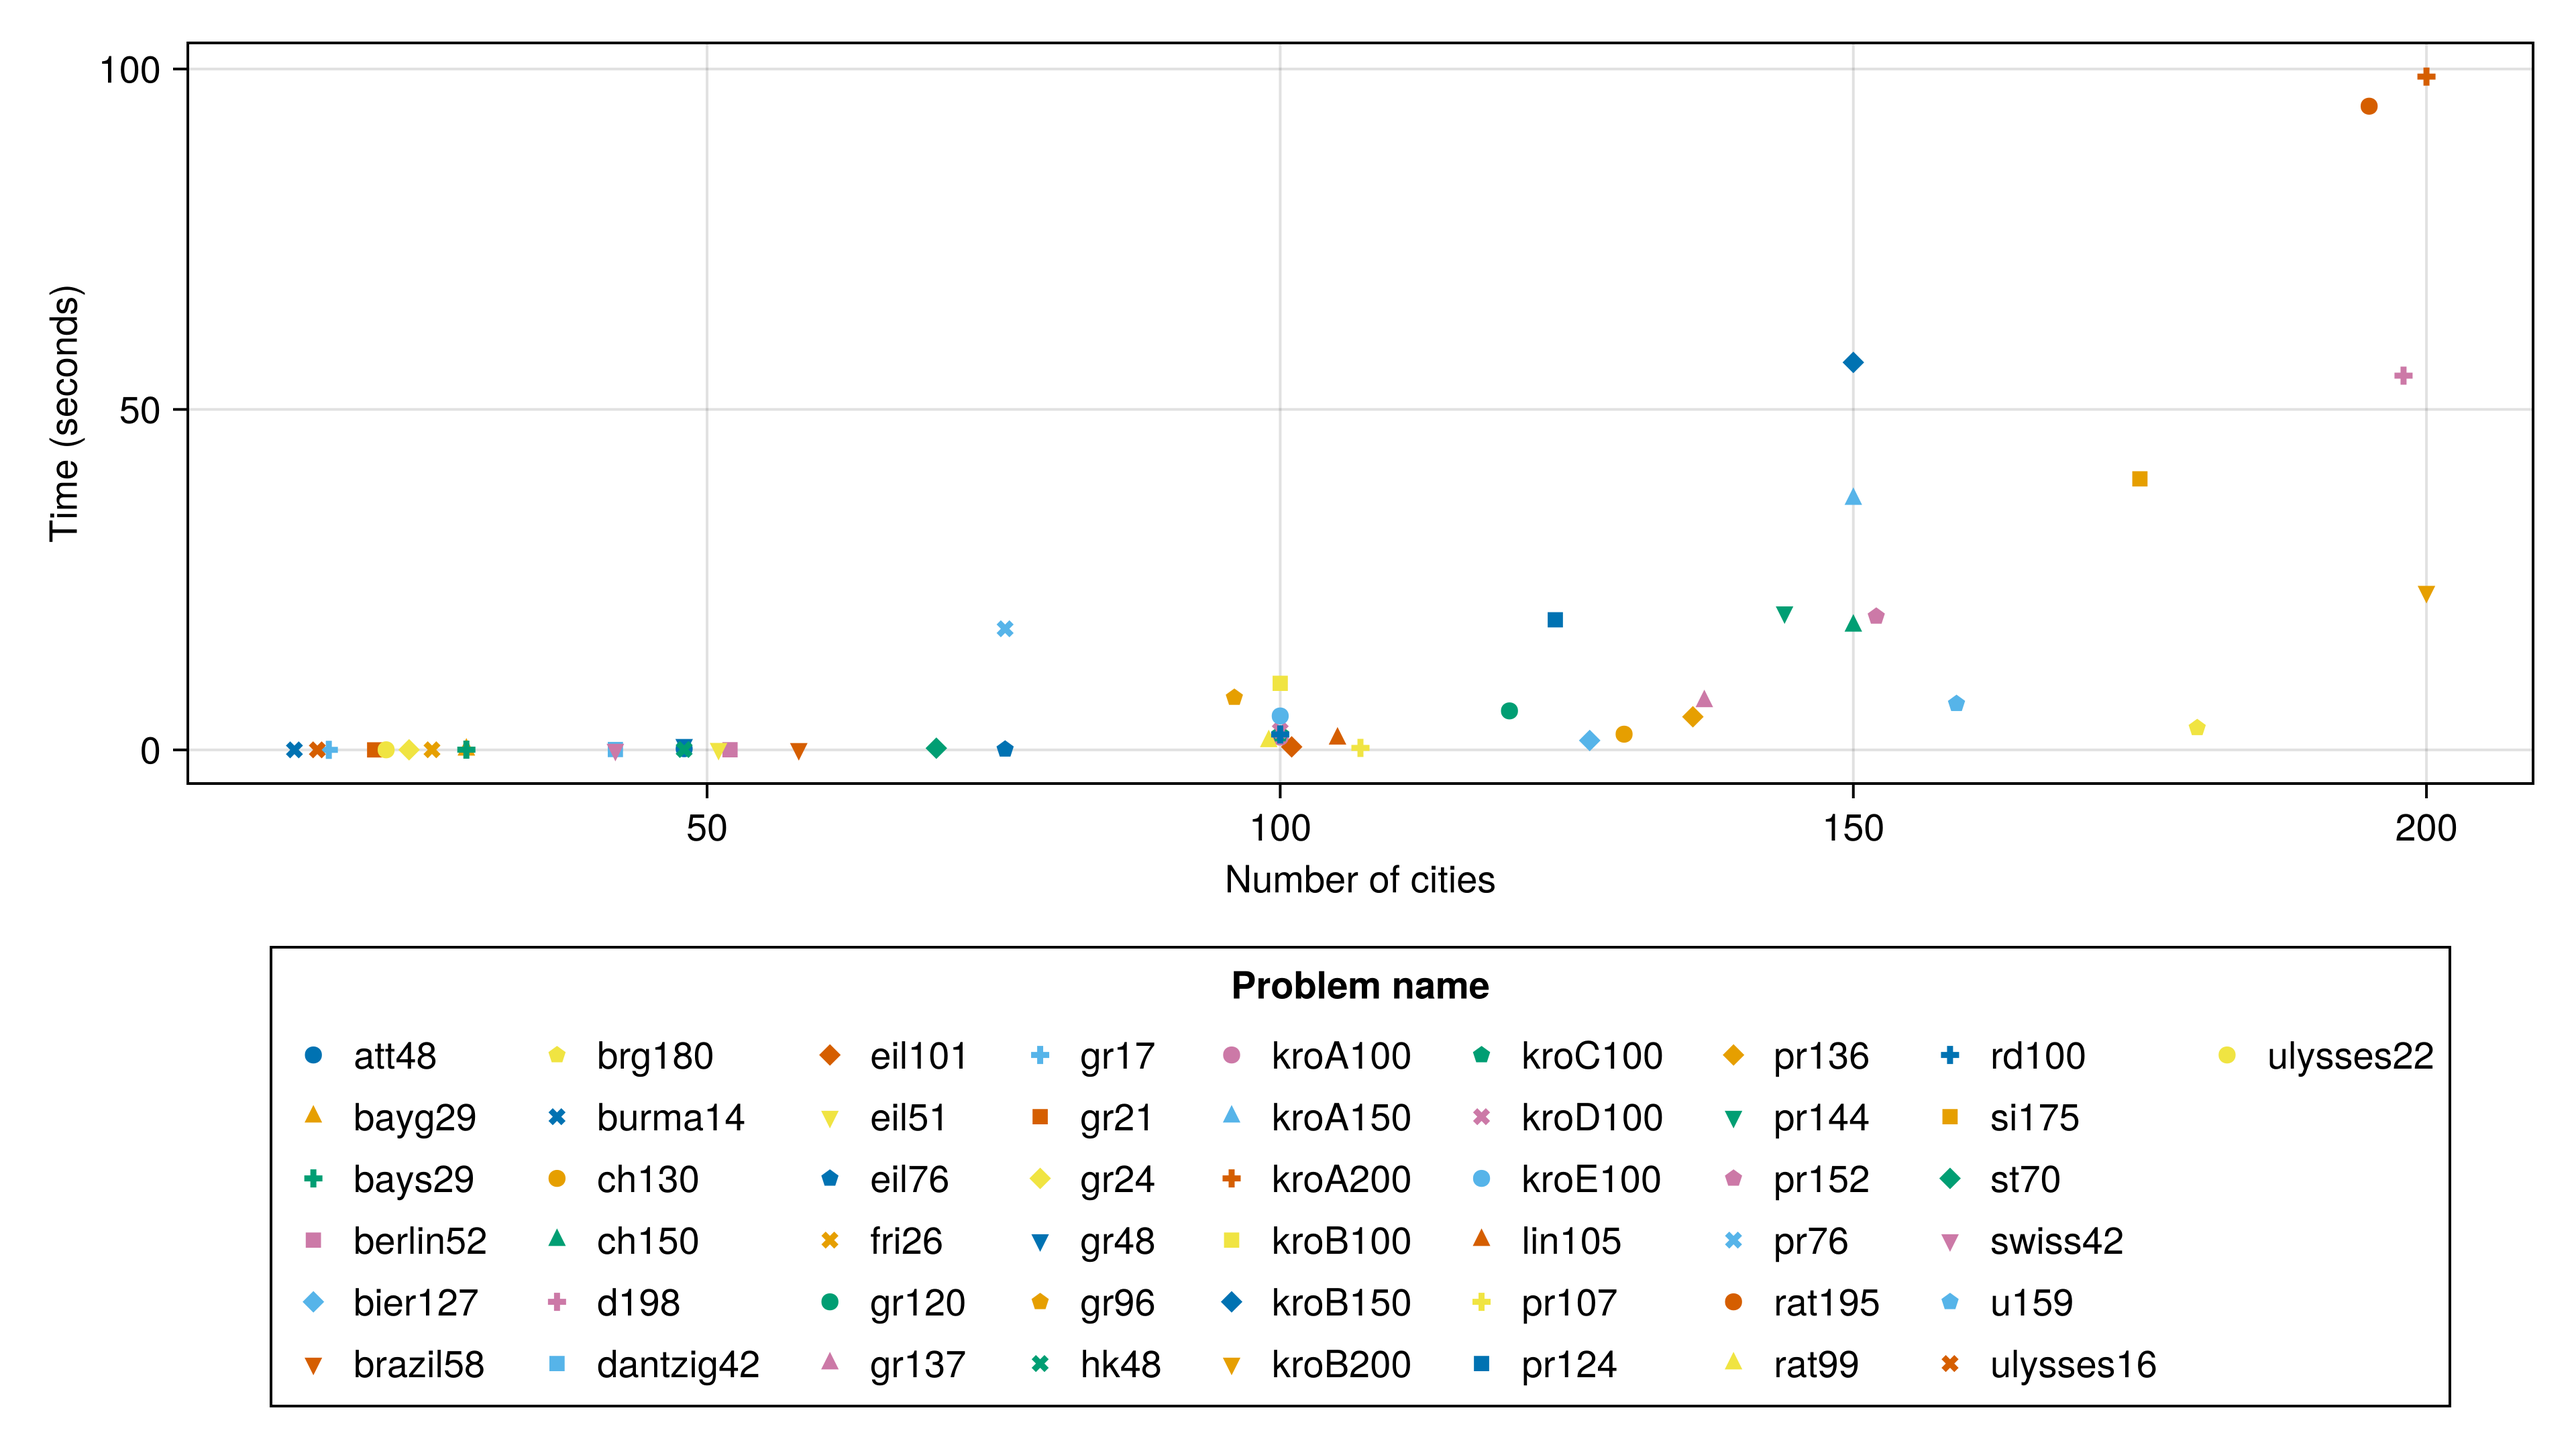
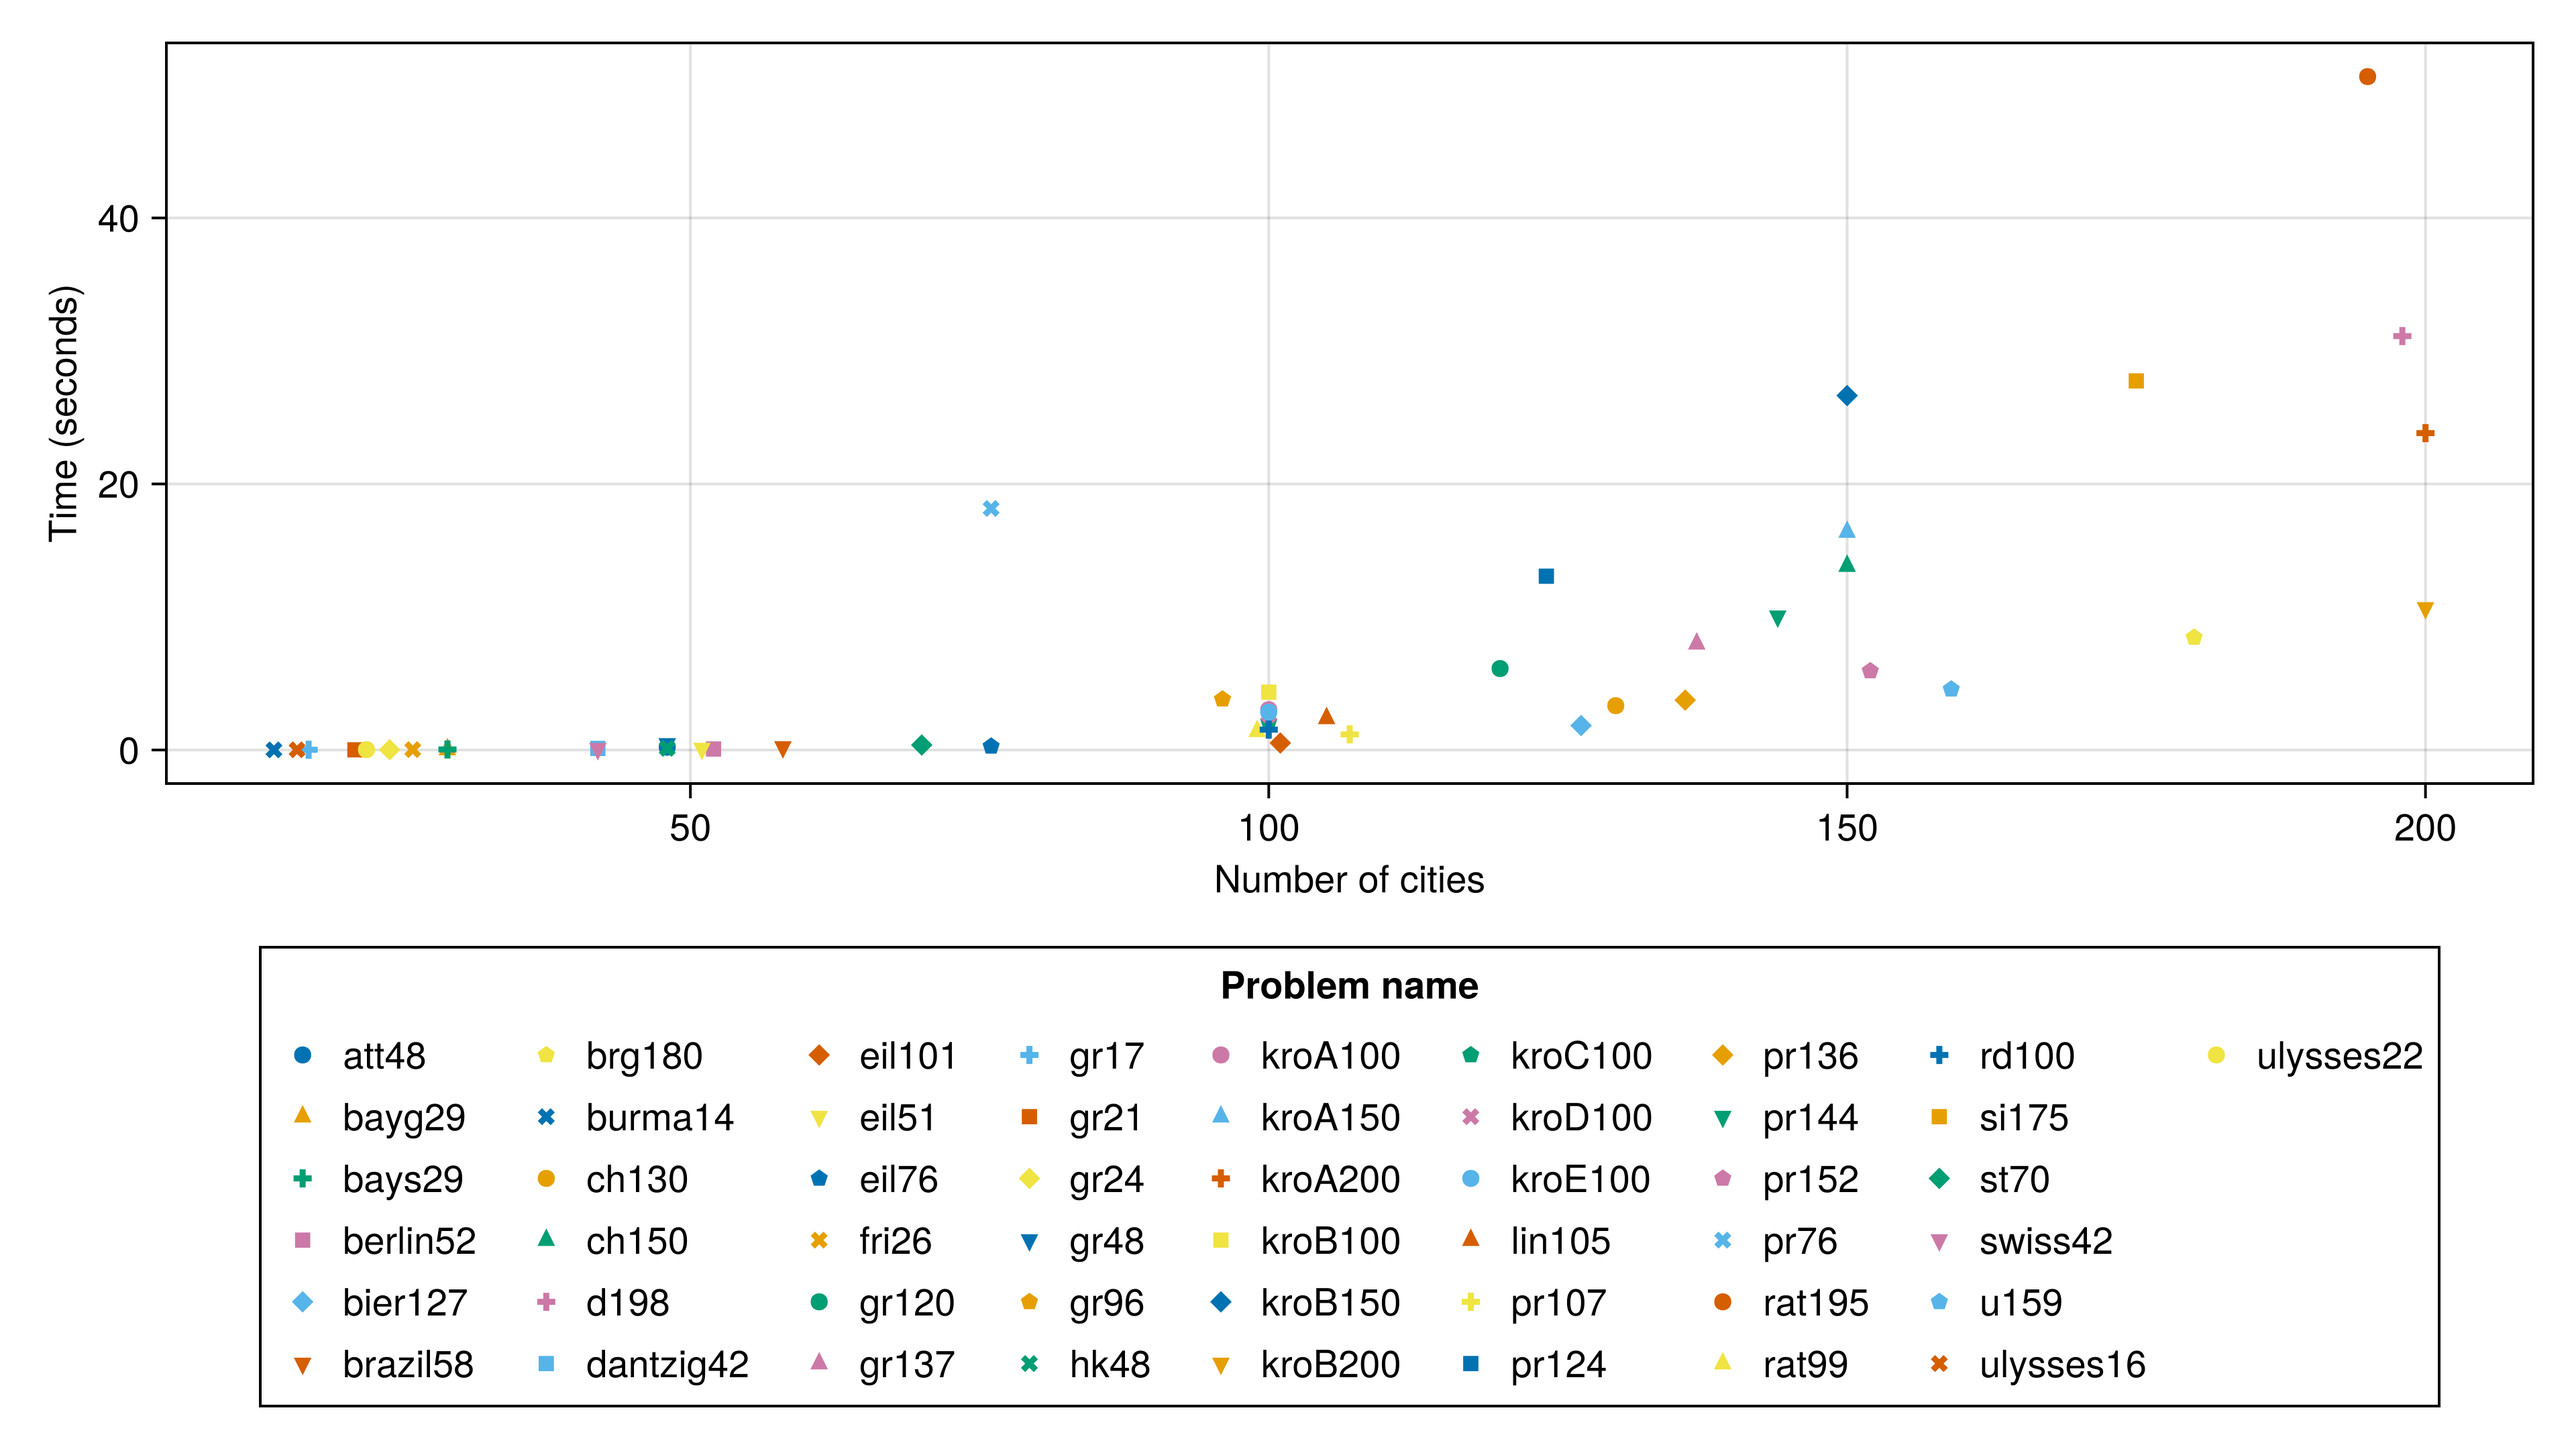
implement several optimizations from Pferschy & Staněk 2017 (#35)
* updates and fixes

* update

* up

* add to readme

* format, use multiple solutions, use different types of constraints

* faster

* wip

* up

* format

* up

* try fixing windows

* up

* up

diff --git a/README.md b/README.md
@@ -10,9 +10,14 @@ Dantzig-Fulkerson-Johnson algorithm. I learned about this kind of algorithm from
 the very nice blog post <http://opensourc.es/blog/mip-tsp> which also has a
 [Julia implementation](https://github.com/opensourcesblog/mip_tsp). In the
 symmetric case, the implementation in this package uses the symmetry of the
-problem to reduce the number of variables, and essentially is the most basic
-version of the algorithms described by (Pferschy and Staněk, 2017) (i.e. no
-warmstarts or clustering methods for subtour elimination as a presolve step).
+problem to reduce the number of variables, and is similar to the "reduced clustering"
+version of the algorithms described by (Pferschy and Staněk, 2017), using TravelingSalesmanHeuristics to warmstart the solves with good solutions, as well as
+splitting the problem into subproblems using Clustering.jl to obtain some good
+subtour elimination constraints.
+
+While TravelingSalesmanExact is functional and somewhat practical for small problems,
+in 2003, [Concorde](https://www.math.uwaterloo.ca/tsp/concorde/benchmarks/bench.html) already could solve much larger problems faster! So we are far away from the state of the art here.
+See [Performance](#performance) below for some more details.
 
 See also
 [TravelingSalesmanHeuristics.jl](https://github.com/evanfields/TravelingSalesmanHeuristics.jl)
@@ -45,12 +50,12 @@ This package is registered, so you can add it via
 
 You also need a
 [mixed-integer solver](https://jump.dev/JuMP.jl/stable/installation/#Supported-solvers)
-to do the underlying optimization. For example, `HiGHS` is a free, open-source
-solver (see <https://github.com/jump-dev/HiGHS.jl> for the compatible Julia
+to do the underlying optimization. For example, `SCIP` is a free, open-source
+solver (see <https://github.com/scipopt/SCIP.jl> for the compatible Julia
 wrapper) and can be installed by
 
 ```julia
-] add HiGHS
+] add SCIP
 ```
 
 `Gurobi` is a commercial wrapper that offers free academic licenses. It has a
@@ -73,11 +78,11 @@ See [./tsplib](./tsplib) for some benchmarking results on small problems from [T
 
 ![Example](example.svg)
 
-With HiGHS:
+With SCIP:
 
 ```julia
-using TravelingSalesmanExact, HiGHS
-set_default_optimizer!(HiGHS.Optimizer)
+using TravelingSalesmanExact, SCIP
+set_default_optimizer!(optimizer_with_attributes(SCIP.Optimizer, "limits/maxorigsol" => 100))
 n = 50
 cities = [ 100*rand(2) for _ in 1:n];
 tour, cost = get_optimal_tour(cities; verbose = true)
@@ -97,11 +102,9 @@ Note that without the `OutputFlag = 0` argument, Gurobi will print a lot of info
 One can also pass an optimizer to `get_optimal_tour` instead of setting the default for the session, e.g.
 
 ```julia
-using TravelingSalesmanExact, HiGHS
-n = 50
+using TravelingSalesmanExact, SCIP
+n = 500
 cities = [ 100*rand(2) for _ in 1:n];
-tour, cost = get_optimal_tour(cities, HiGHS.Optimizer; verbose = true)
+tour, cost = get_optimal_tour(cities, SCIP.Optimizer; verbose = true)
 plot_cities(cities[tour])
 ```
-
-See <https://ericphanson.github.io/TravelingSalesmanBenchmarks.jl/html/random_50_cities_stats.html> for a benchmark comparing the computation time between these solvers on random problems as well as comparing to  that of heuristics.

diff --git a/tsplib/README.md b/tsplib/README.md
@@ -10,8 +10,8 @@ At least on my m1 macbook pro:
 
 ![](50.png)
 
-## Tours with up to 200 cities are solved exactly in ≤ 100s
+## Tours with up to 200 cities are solved exactly in ≤ 50s
 
-But variance is high and your mileage may depend on the problem. At this scale a different approach will likely work better.
+But variance is high and your mileage may depend on the problem.
 
 ![](200.png)
